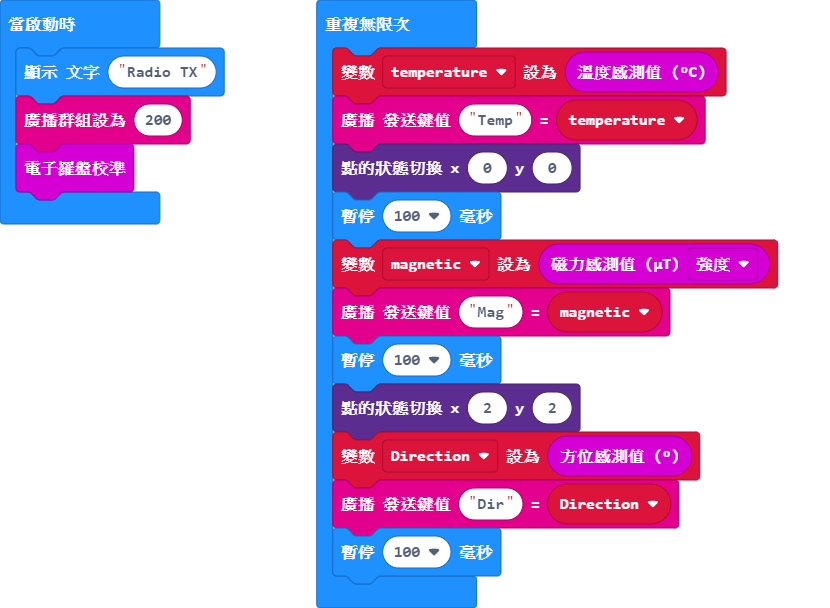
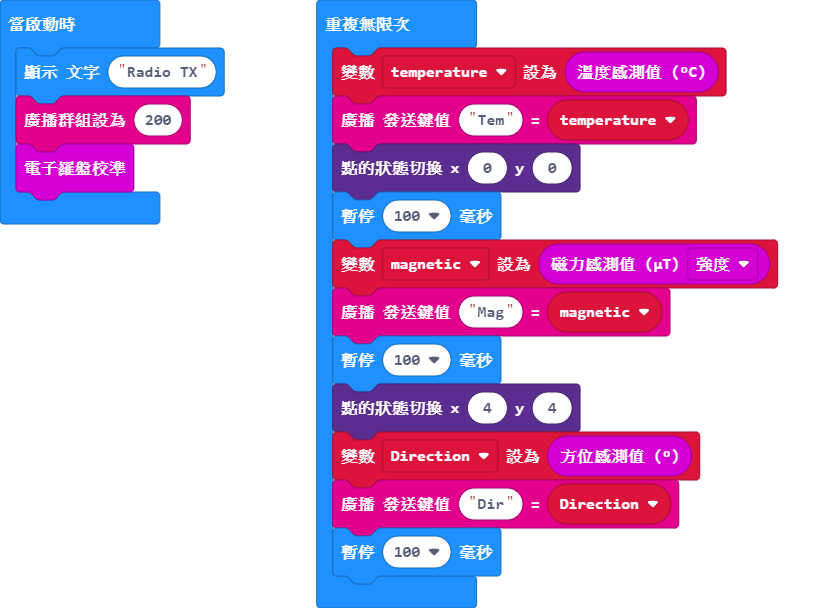
Update main.blocks, main.ts

Changed region(s): [[0.6024, 0.1562, 0.8735, 0.25], [0.5723, 0.6562, 0.6024, 0.6875]]

diff --git a/main.ts b/main.ts
@@ -6,13 +6,13 @@ radio.setGroup(200)
 input.calibrateCompass()
 basic.forever(function () {
     temperature = input.temperature()
-    radio.sendValue("Temp", temperature)
+    radio.sendValue("Tem", temperature)
     led.toggle(0, 0)
     basic.pause(100)
     magnetic = input.magneticForce(Dimension.Strength)
     radio.sendValue("Mag", magnetic)
     basic.pause(100)
-    led.toggle(2, 2)
+    led.toggle(4, 4)
     Direction2 = input.compassHeading()
     radio.sendValue("Dir", Direction2)
     basic.pause(100)
